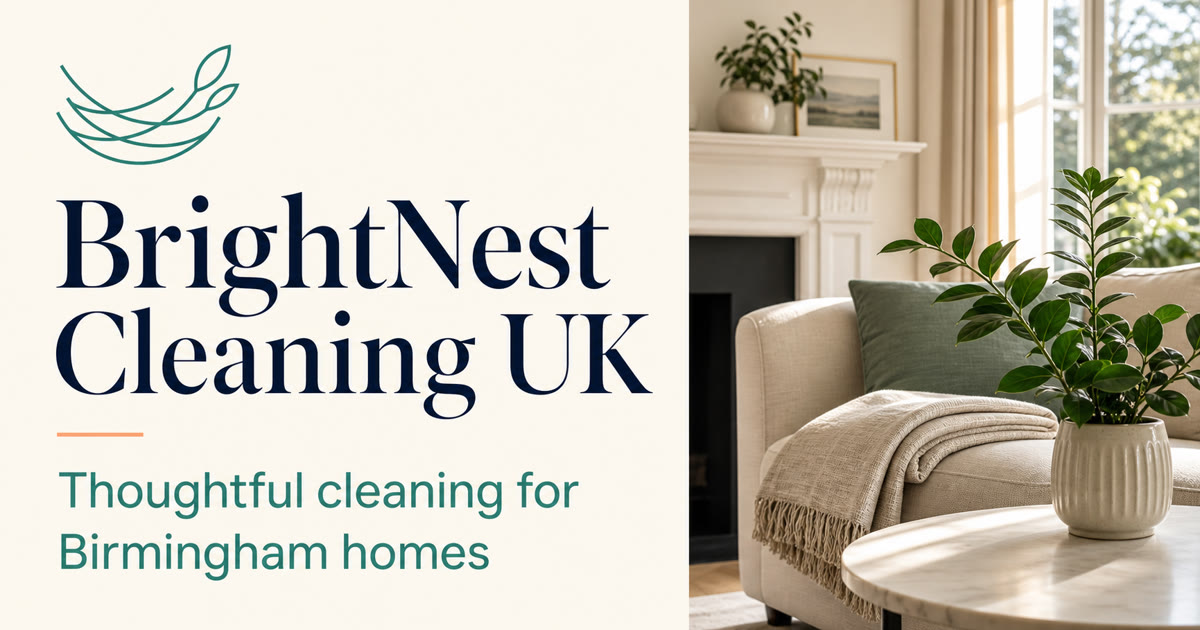
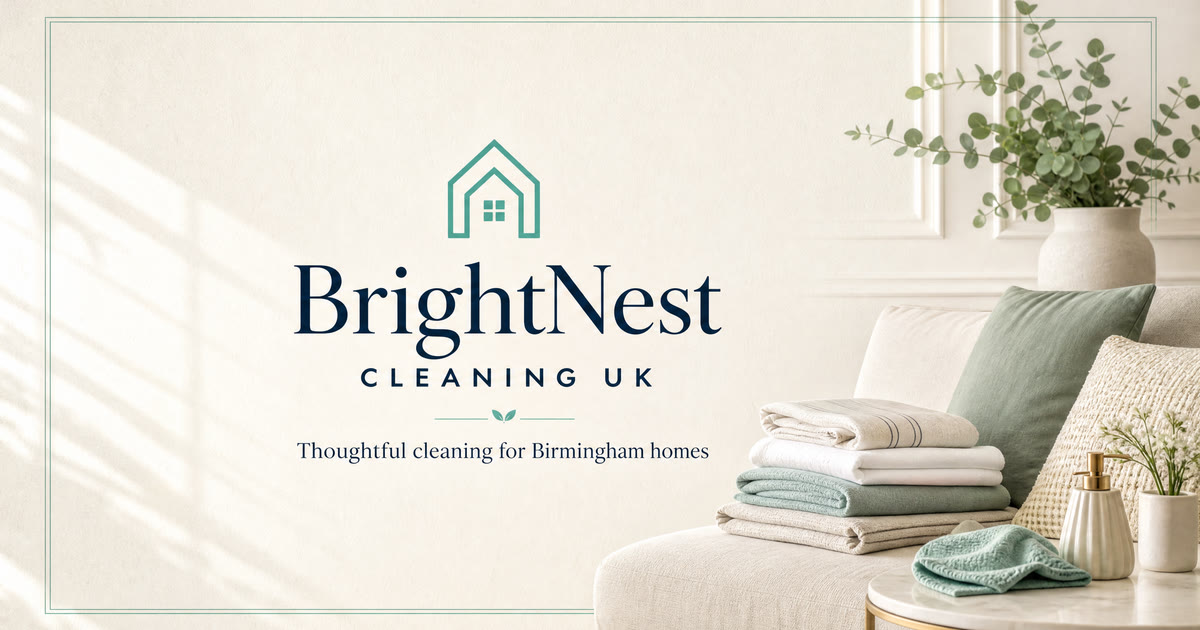
Update new domain OG preview and mobile cards

diff --git a/client/index.html b/client/index.html
@@ -5,16 +5,16 @@
     <meta name="viewport" content="width=device-width, initial-scale=1.0, maximum-scale=1" />
     <meta name="description" content="BrightNest Cleaning UK — thoughtful domestic and specialist cleaning across Birmingham and surrounding areas." />
     <meta name="theme-color" content="#173137" />
-    <link rel="canonical" href="https://brightnest-cleaning-ashy.vercel.app/" />
+    <link rel="canonical" href="https://brightnestcleaning.vercel.app/" />
     <meta property="og:type" content="website" />
     <meta property="og:locale" content="en_GB" />
     <meta property="og:site_name" content="BrightNest Cleaning UK" />
     <meta property="og:title" content="BrightNest Cleaning UK | Thoughtful cleaning for Birmingham homes" />
     <meta property="og:description" content="Thoughtful domestic and specialist cleaning for Birmingham homes, rentals and guest-ready spaces." />
-    <meta property="og:url" content="https://brightnest-cleaning-ashy.vercel.app/" />
-    <meta property="og:image" content="https://brightnest-cleaning-ashy.vercel.app/brightnest-social-preview.jpg" />
-    <meta property="og:image:url" content="https://brightnest-cleaning-ashy.vercel.app/brightnest-social-preview.jpg" />
-    <meta property="og:image:secure_url" content="https://brightnest-cleaning-ashy.vercel.app/brightnest-social-preview.jpg" />
+    <meta property="og:url" content="https://brightnestcleaning.vercel.app/" />
+    <meta property="og:image" content="https://brightnestcleaning.vercel.app/brightnest-social-preview.jpg" />
+    <meta property="og:image:url" content="https://brightnestcleaning.vercel.app/brightnest-social-preview.jpg" />
+    <meta property="og:image:secure_url" content="https://brightnestcleaning.vercel.app/brightnest-social-preview.jpg" />
     <meta property="og:image:type" content="image/jpeg" />
     <meta property="og:image:width" content="1200" />
     <meta property="og:image:height" content="630" />
@@ -22,8 +22,8 @@
     <meta name="twitter:card" content="summary_large_image" />
     <meta name="twitter:title" content="BrightNest Cleaning UK | Thoughtful cleaning for Birmingham homes" />
     <meta name="twitter:description" content="Thoughtful domestic and specialist cleaning for Birmingham homes, rentals and guest-ready spaces." />
-    <meta name="twitter:image" content="https://brightnest-cleaning-ashy.vercel.app/brightnest-social-preview.jpg" />
-    <meta name="twitter:image:src" content="https://brightnest-cleaning-ashy.vercel.app/brightnest-social-preview.jpg" />
+    <meta name="twitter:image" content="https://brightnestcleaning.vercel.app/brightnest-social-preview.jpg" />
+    <meta name="twitter:image:src" content="https://brightnestcleaning.vercel.app/brightnest-social-preview.jpg" />
     <meta name="twitter:image:alt" content="BrightNest Cleaning UK — Thoughtful cleaning for Birmingham homes" />
     <link rel="icon" type="image/webp" href="https://files.manuscdn.com/user_upload_by_module/session_file/310519663898260788/epmAnxWTqVplpnUt.webp" />
     <link rel="preload" as="image" href="https://files.manuscdn.com/user_upload_by_module/session_file/310519663898260788/RXLTTcAvxXHzkGtC.webp" fetchpriority="high" />

diff --git a/client/src/pages/Home.tsx b/client/src/pages/Home.tsx
@@ -436,14 +436,14 @@ export default function Home() {
 
             <div className="mt-14 grid gap-3 sm:grid-cols-2 xl:grid-cols-3">
               {services.map((item, index) => (
-                <article key={item.title} className={`service-card service-${item.tone} group relative min-h-[278px] overflow-hidden p-6 sm:p-7`}>
-                  <div className="flex items-start justify-between">
-                    <span className="service-number">0{index + 1}</span>
+                <article key={item.title} className={`service-card service-${item.tone} group relative flex min-h-[348px] flex-col overflow-hidden p-6 sm:min-h-[320px] sm:p-7`}>
+                  <div className="flex shrink-0 items-start justify-between">
+                    <span className="service-number">{String(index + 1).padStart(2, "0")}</span>
                     <span className="grid h-10 w-10 place-items-center rounded-full border border-current/20 transition-transform duration-200 group-hover:-rotate-12 group-hover:scale-110">
                       <ArrowRight className="h-4 w-4" />
                     </span>
                   </div>
-                  <div className="absolute bottom-6 right-6 left-6 sm:bottom-7 sm:right-7 sm:left-7">
+                  <div className="service-card-content mt-auto min-w-0 pt-8 sm:pt-9">
                     <p className="text-[10px] font-extrabold uppercase tracking-[0.15em] opacity-65">{item.eyebrow}</p>
                     <h3 className="font-display mt-2 text-[31px] leading-[0.98] tracking-[-0.045em]">{item.title}</h3>
                     <p className="mt-3 text-sm font-extrabold tracking-[-0.01em] text-[#2f9f91]">{item.price}</p>

diff --git a/client/src/index.css b/client/src/index.css
@@ -183,6 +183,7 @@ button:disabled { cursor: not-allowed; }
 .service-card {
   border-radius: 26px;
   isolation: isolate;
+  min-width: 0;
   transition: transform 220ms cubic-bezier(0.23, 1, 0.32, 1), box-shadow 220ms cubic-bezier(0.23, 1, 0.32, 1);
 }
 .service-card::after {
@@ -205,6 +206,8 @@ button:disabled { cursor: not-allowed; }
 .service-sage { background: #e6efea; color: #173137; }
 .service-linen { background: #f8f6ef; color: #173137; }
 .service-number { font-family: "DM Serif Display", Georgia, serif; font-size: 1.5rem; letter-spacing: -0.06em; opacity: 0.58; }
+.service-card-content { min-width: 0; }
+.service-card-content h3 { overflow-wrap: anywhere; }
 
 .booking-step {
   display: flex;
@@ -277,6 +280,9 @@ input[type="date"]::-webkit-calendar-picker-indicator, input[type="time"]::-webk
 @media (max-width: 520px) {
   .booking-step { padding: 0.55rem 0.4rem; gap: 0.35rem; }
   .booking-step small { font-size: 0.57rem; }
+  .service-card-content { padding-top: 2rem; }
+  .service-card-content h3 { font-size: 1.82rem; }
+  .service-card-content button { align-items: flex-start; line-height: 1.45; text-align: left; }
 }
 
 @media (prefers-reduced-motion: no-preference) {

diff --git a/todo.md b/todo.md
@@ -46,3 +46,12 @@
 - [x] Remove horizontal overflow in the mobile layout and verify the corrected deployment.
 - [x] Create a refreshed downloadable ZIP archive of the latest source code.
 - [x] Diagnose and fix the Open Graph preview image on the live website.
+- [x] Create and deliver a refreshed source-code ZIP after the Open Graph update.
+- [ ] Create a new social-preview image and update metadata for brightnestcleaning.vercel.app.
+- [ ] Fix service-card numbering after 10 and eliminate mobile text overlaps.
+- [ ] Verify the new domain deployment and deliver a refreshed source ZIP.
+
+## Current repair findings
+
+- `brightnestcleaning.vercel.app` was still publishing canonical and social-preview URLs for the old `brightnest-cleaning-ashy.vercel.app` domain.
+- A new BrightNest social card has been created, reviewed, and packaged as a first-party 1200×630 JPEG for the new domain.
